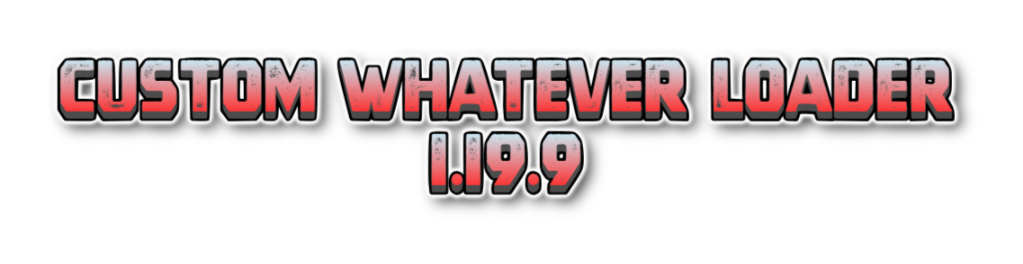
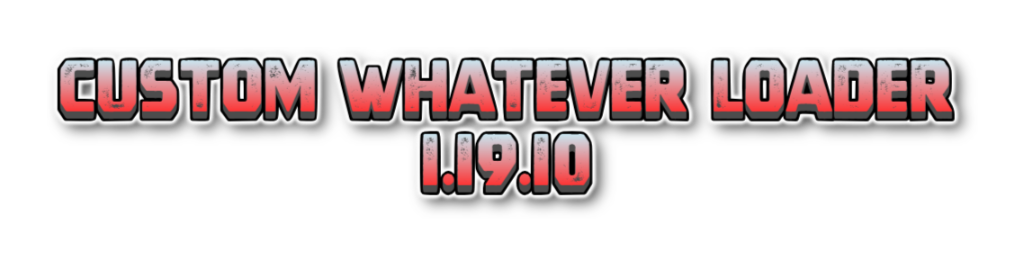
feat(CWL): purge invalid items when quest board queries

Changed region(s): [[0.3939, 0.4848, 0.6061, 0.7879]]

diff --git a/CustomWhateverLoader/Patches/Quests/InvalidateDeliverPatch.cs b/CustomWhateverLoader/Patches/Quests/InvalidateDeliverPatch.cs
@@ -1,0 +1,85 @@
+using System;
+using System.Collections.Generic;
+using System.Reflection;
+using Cwl.Helper.Runtime;
+using Cwl.Helper.Unity;
+using Cwl.LangMod;
+using HarmonyLib;
+
+namespace Cwl.Patches.Quests;
+
+[HarmonyPatch]
+internal class InvalidateItemPatch
+{
+    private const string FallbackItem = "generator_snowman";
+
+    internal static IEnumerable<MethodInfo> TargetMethods()
+    {
+        return OverrideMethodComparer.FindAllOverridesGetter(typeof(QuestDeliver), nameof(QuestDeliver.sourceThing));
+    }
+
+    [HarmonyPrefix]
+    internal static bool InvalidateItem(QuestDeliver __instance, ref SourceThing.Row __result)
+    {
+        __instance.idThing = __instance.idThing.IsEmpty(FallbackItem);
+        if (EMono.sources.things.map.TryGetValue(__instance.idThing, out __result) && __result is not null) {
+            return false;
+        }
+
+        CwlMod.Warn<QuestDeliver>("cwl_warn_quest_id_thing".Loc(__instance.GetType().Name, __instance.idThing, FallbackItem));
+        __instance.idThing = FallbackItem;
+
+        return true;
+    }
+}
+
+[HarmonyPatch]
+internal static class InvalidateDestThingPatch
+{
+    private static readonly List<Thing> _cleanup = [];
+    private static bool _queued;
+
+    internal static IEnumerable<MethodInfo> TargetMethods()
+    {
+        return OverrideMethodComparer.FindAllOverrides(typeof(QuestDeliver), nameof(QuestDeliver.IsDestThing), typeof(Thing));
+    }
+
+    [HarmonyPrefix]
+    internal static bool InvalidateDestThing(QuestDeliver __instance, ref bool __result, Thing t)
+    {
+        try {
+            _ = t.source.GetName();
+            _ = t.GetName(NameStyle.Simple, 1);
+        } catch (Exception ex) {
+            if (!_cleanup.Contains(t)) {
+                _cleanup.Add(t);
+
+                if (!_queued) {
+                    CoroutineHelper.Deferred(Cleanup);
+                    _queued = true;
+                }
+
+                CwlMod.Warn<QuestDeliver>("cwl_warn_quest_id_thing2".Loc(ex.Message));
+            }
+
+            __result = false;
+            return false;
+            // noexcept
+        }
+
+        return true;
+    }
+
+    private static void Cleanup()
+    {
+        foreach (var thing in _cleanup) {
+            try {
+                thing?.Destroy();
+            } catch {
+                // noexcept
+            }
+        }
+
+        _queued = false;
+    }
+}

diff --git a/CustomWhateverLoader/Loader/CustomWhateverLoader.cs b/CustomWhateverLoader/Loader/CustomWhateverLoader.cs
@@ -10,7 +10,7 @@ public static class ModInfo
     // for legacy reason
     public const string Guid = "dk.elinplugins.customdialogloader";
     public const string Name = "Custom Whatever Loader";
-    public const string Version = "1.19.9";
+    public const string Version = "1.19.10";
 }
 
 [BepInPlugin(ModInfo.Guid, ModInfo.Name, ModInfo.Version)]
